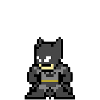
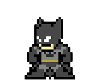
Resize characters images, change toast position

Changed region(s): [[0.24, 0.475, 0.75, 1.0], [0.33, 0.2, 0.63, 0.525]]

diff --git a/frontend/src/components/CharacterButton/CharacterButton.jsx b/frontend/src/components/CharacterButton/CharacterButton.jsx
@@ -14,7 +14,7 @@ const CharacterButton = ({ hidingIn, onCharacterUnlock}) => {
             onCharacterUnlock(hidingIn);
 
             toast.success('Found one!', {
-                position: "top-center",
+                position: "bottom-center",
                 autoClose: 3000,
                 hideProgressBar: true,
                 closeOnClick: true,
